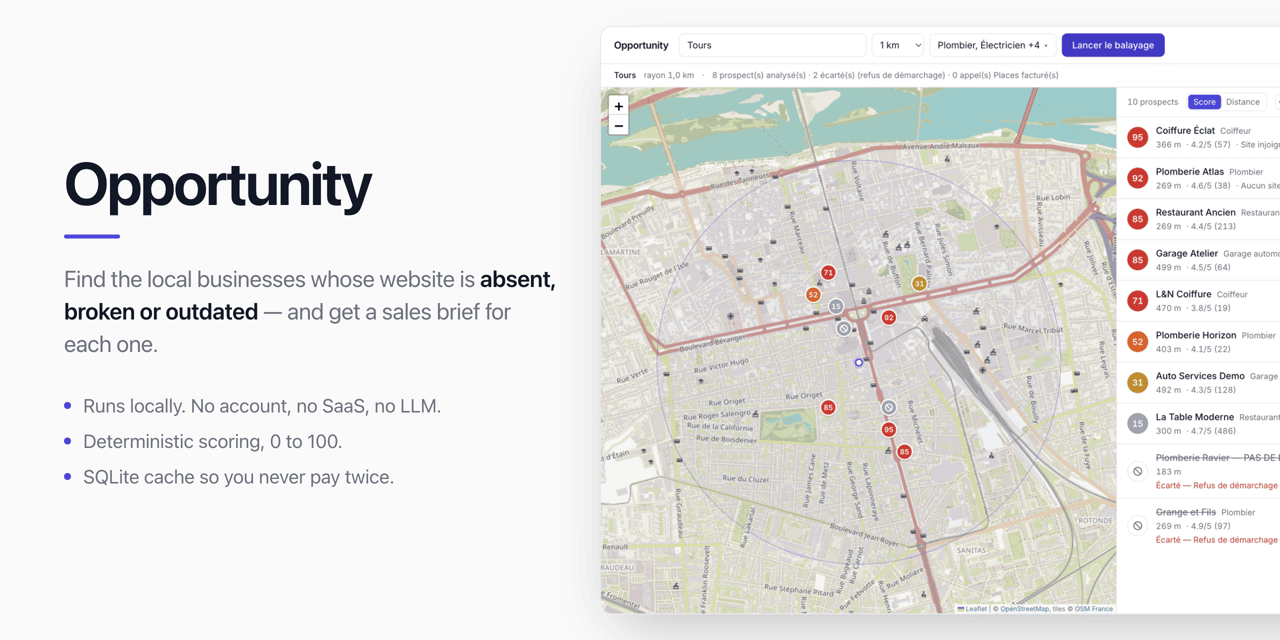
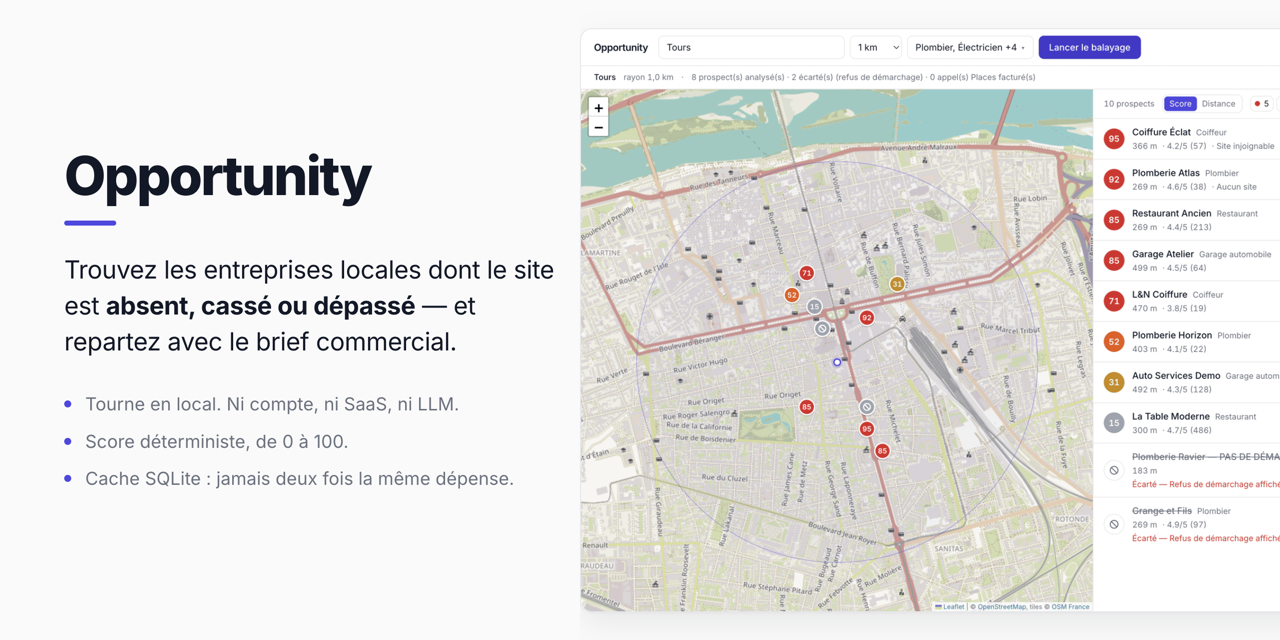
docs: refaire la preview sociale en français
L'image Open Graph était restée en anglais après le passage du dépôt en
français. C'est pourtant le premier contact avec le projet sur Twitter,
LinkedIn ou Slack — avant même le README.

Le PNG avait été ajouté sans source, donc impossible à retoucher. Le
gabarit HTML qui l'accompagne le rend régénérable : mêmes tokens que
app/globals.css (accent indigo unique, pas de dégradé, pas d'ombre
marquée), 1280x640, mode d'emploi de la capture en commentaire.

Rappel consigné dans le gabarit : le fichier versionné ne suffit pas,
GitHub n'utilise l'image que si elle est téléversée dans
Settings > General > Social preview, et n'expose aucune API pour ça.

Changed region(s): [[0.0312, 0.0312, 1.0, 0.9688], [0.0625, 0.625, 0.4062, 0.7812], [0.0312, 0.25, 0.3125, 0.375]]

diff --git a/scripts/social-preview.html b/scripts/social-preview.html
@@ -1,0 +1,171 @@
+<!doctype html>
+<html lang="fr">
+  <head>
+    <meta charset="utf-8" />
+    <title>Opportunity — gabarit de preview sociale</title>
+    <!--
+      Source régénérable de public/screenshots/social-preview.png.
+
+      C'est l'image que GitHub sert comme carte Open Graph : elle est ce qu'on
+      voit d'Opportunity sur Twitter, LinkedIn ou Slack avant même le README.
+
+      Régénérer (pas de script dédié : ça n'ajoute pas un navigateur headless
+      aux dépendances pour une image qui change deux fois par an) —
+        python3 -m http.server 8931
+      puis capturer cette page à 1280x640 et écraser
+      public/screenshots/social-preview.png.
+
+      Le PNG doit ensuite être téléversé dans Settings > General > Social
+      preview : GitHub n'expose aucune API pour ce réglage, et un fichier
+      versionné dans le dépôt n'y suffit pas.
+
+      Contraintes reprises de app/globals.css : une seule couleur d'accent
+      (indigo), pas de dégradé, pas d'ombre marquée, pas d'emoji décoratif.
+      1280x640 est le format recommandé par GitHub.
+    -->
+    <link rel="preconnect" href="https://fonts.googleapis.com" />
+    <link rel="preconnect" href="https://fonts.gstatic.com" crossorigin />
+    <link
+      href="https://fonts.googleapis.com/css2?family=Inter:wght@400;500;700;800&display=swap"
+      rel="stylesheet"
+    />
+    <style>
+      :root {
+        --app-bg: #fafafa;
+        --app-surface: #ffffff;
+        --app-border: #e5e7eb;
+        --app-text: #111827;
+        --app-muted: #6b7280;
+        --app-accent: #4f46e5;
+      }
+
+      * {
+        margin: 0;
+        padding: 0;
+        box-sizing: border-box;
+      }
+
+      html,
+      body {
+        width: 1280px;
+        height: 640px;
+        overflow: hidden;
+      }
+
+      body {
+        display: flex;
+        align-items: center;
+        background: var(--app-bg);
+        color: var(--app-text);
+        font-family: Inter, ui-sans-serif, system-ui, sans-serif;
+        /* Le rendu de capture ne doit pas dépendre du lissage de la machine. */
+        -webkit-font-smoothing: antialiased;
+      }
+
+      .copy {
+        flex: 0 0 580px;
+        padding: 0 0 0 64px;
+      }
+
+      .wordmark {
+        font-size: 54px;
+        font-weight: 800;
+        letter-spacing: -0.035em;
+        line-height: 1;
+      }
+
+      /* Le seul aplat d'accent de l'image, repris de --app-accent. */
+      .rule {
+        width: 52px;
+        height: 5px;
+        margin: 18px 0 26px;
+        border-radius: 3px;
+        background: var(--app-accent);
+      }
+
+      .tagline {
+        font-size: 25px;
+        font-weight: 400;
+        line-height: 1.44;
+        letter-spacing: -0.012em;
+        max-width: 505px;
+      }
+
+      .tagline strong {
+        font-weight: 700;
+      }
+
+      .points {
+        margin-top: 32px;
+        list-style: none;
+        display: flex;
+        flex-direction: column;
+        gap: 12px;
+      }
+
+      .points li {
+        position: relative;
+        padding-left: 21px;
+        font-size: 18px;
+        line-height: 1.4;
+        color: var(--app-muted);
+        /* Chaque puce doit tenir sur une ligne : une seule qui déborde et la
+           colonne perd son rythme. */
+        white-space: nowrap;
+      }
+
+      .points li::before {
+        content: "";
+        position: absolute;
+        left: 0;
+        /* Aligné optiquement sur la hauteur d'x, pas sur la boîte de ligne. */
+        top: 9px;
+        width: 7px;
+        height: 7px;
+        border-radius: 50%;
+        background: var(--app-accent);
+      }
+
+      /* La capture déborde volontairement à droite : elle suggère une app plus
+         large que le cadre plutôt qu'une fenêtre posée au centre. */
+      .shot {
+        flex: 1 1 auto;
+        align-self: stretch;
+        display: flex;
+        align-items: center;
+        overflow: hidden;
+      }
+
+      /* Plus large que la place disponible : la capture est volontairement
+         coupée par le bord droit du cadre. */
+      .shot img {
+        width: 934px;
+        height: auto;
+        border: 1px solid var(--app-border);
+        border-top-left-radius: 12px;
+        border-bottom-left-radius: 12px;
+        box-shadow: 0 1px 2px rgba(17, 24, 39, 0.04),
+          0 12px 32px rgba(17, 24, 39, 0.08);
+      }
+    </style>
+  </head>
+  <body>
+    <div class="copy">
+      <div class="wordmark">Opportunity</div>
+      <div class="rule"></div>
+      <p class="tagline">
+        Trouvez les entreprises locales dont le site est
+        <strong>absent, cassé ou dépassé</strong> — et repartez avec le brief
+        commercial.
+      </p>
+      <ul class="points">
+        <li>Tourne en local. Ni compte, ni SaaS, ni LLM.</li>
+        <li>Score déterministe, de 0 à 100.</li>
+        <li>Cache SQLite : jamais deux fois la même dépense.</li>
+      </ul>
+    </div>
+    <div class="shot">
+      <img src="../public/screenshots/01-workspace.png" alt="" />
+    </div>
+  </body>
+</html>
